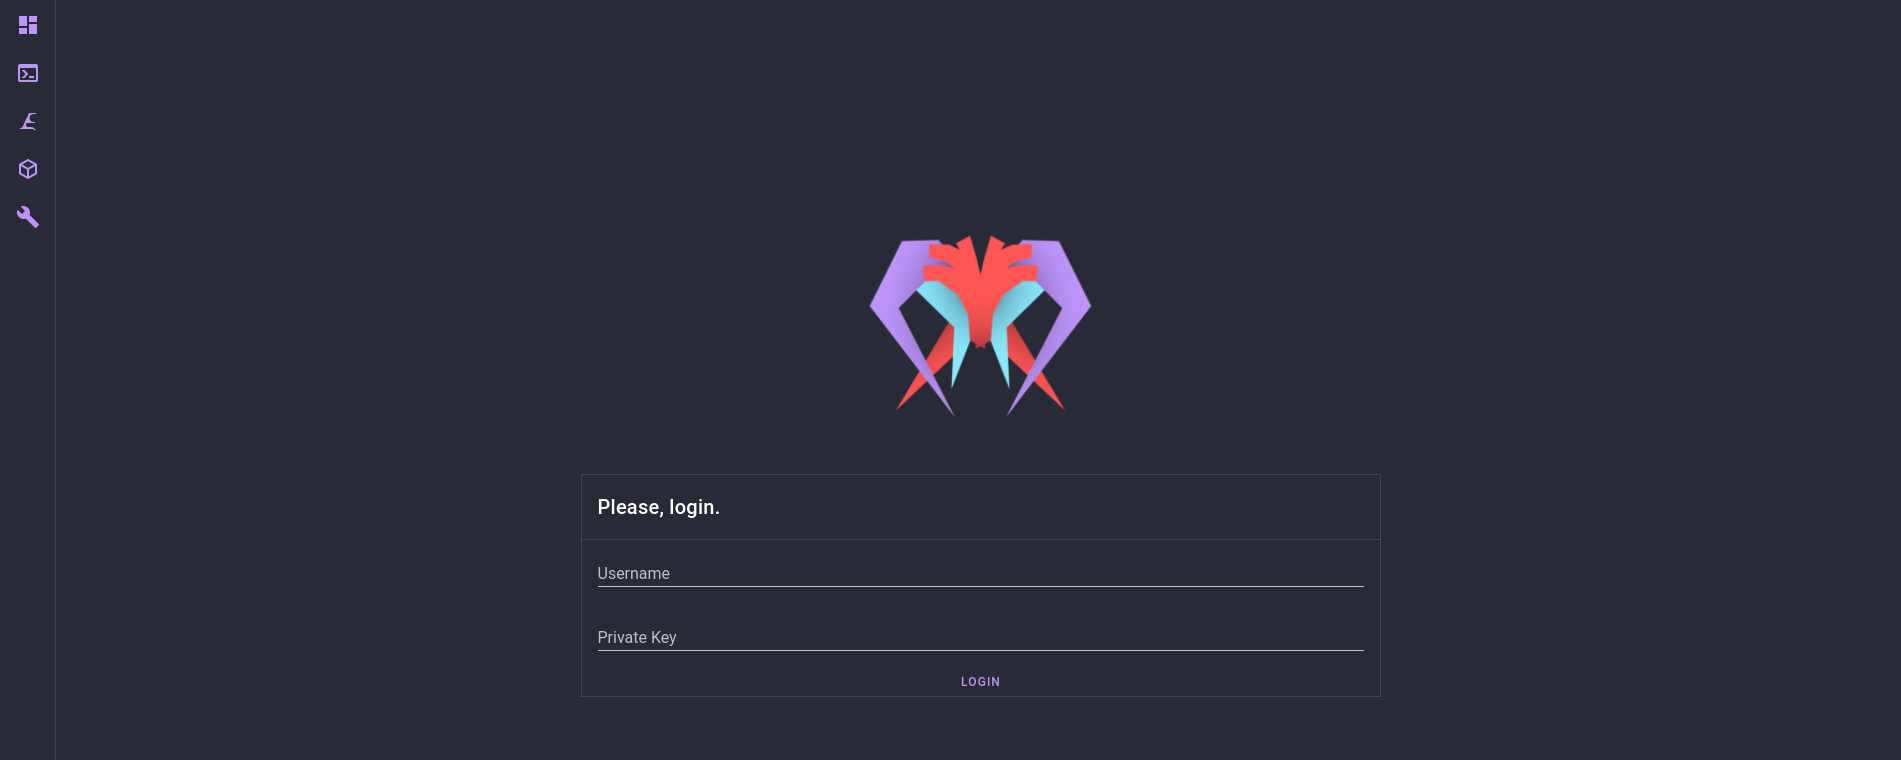
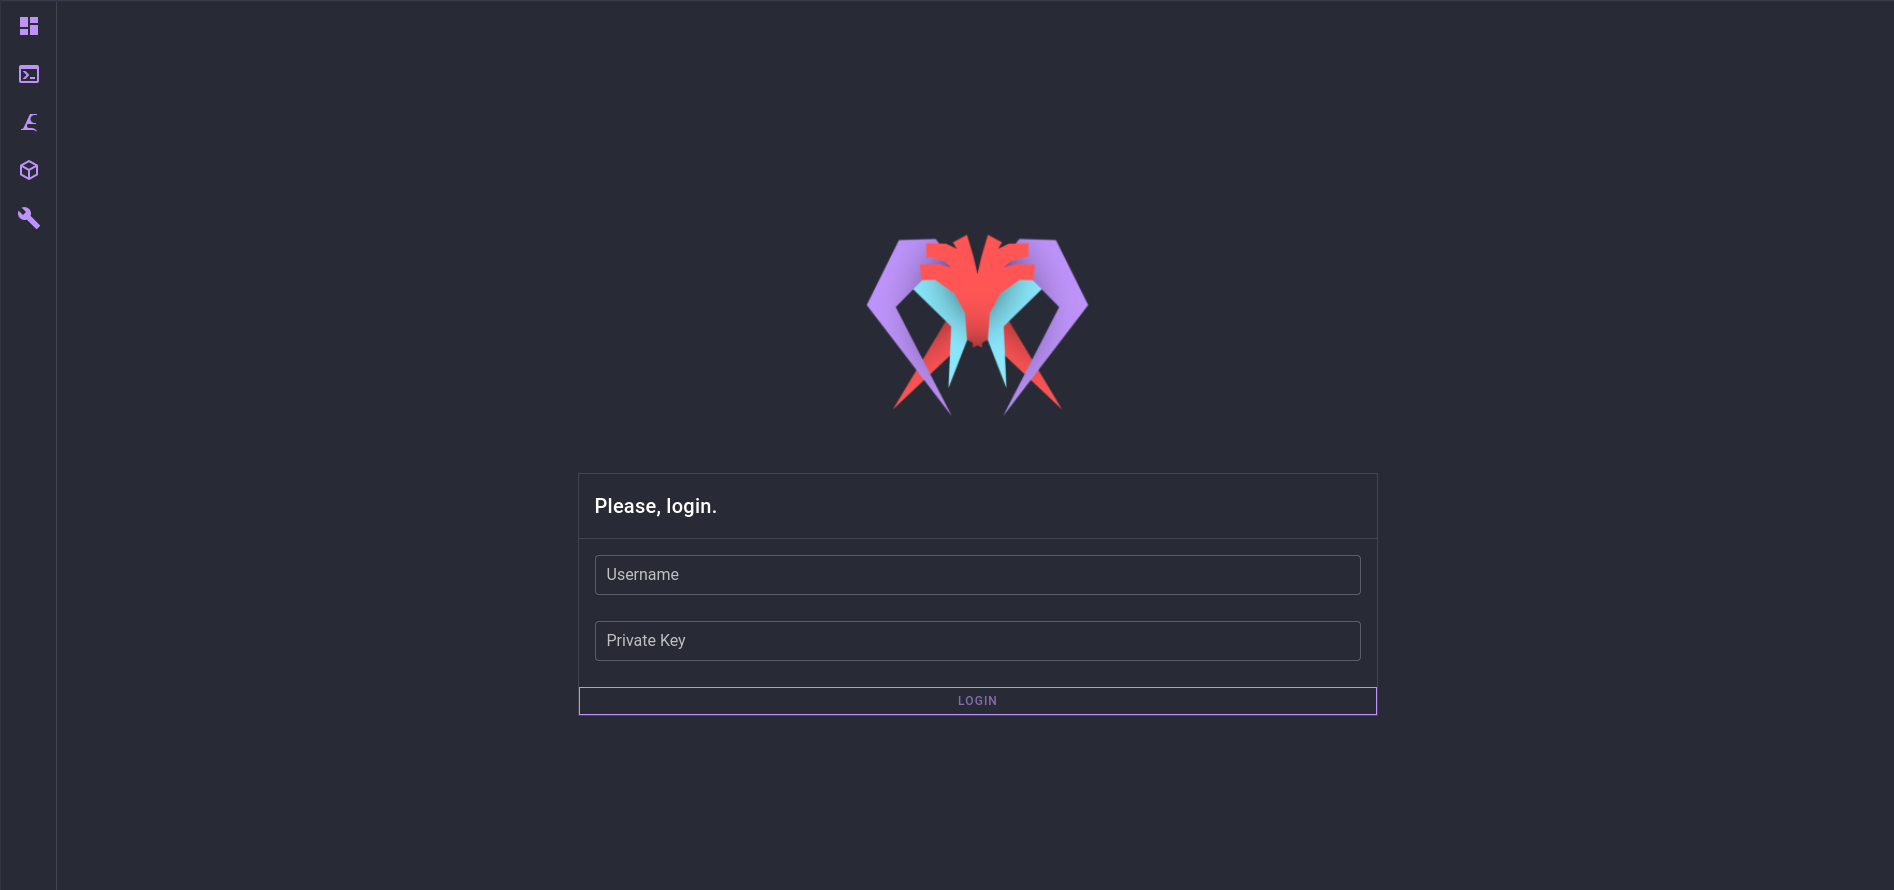
Signing of Messages on Front-End.

diff --git a/user-interfaces/xena-service-face/layouts/default.vue b/user-interfaces/xena-service-face/layouts/default.vue
@@ -6,6 +6,7 @@
       :clipped = 'clipped'
       fixed
       app
+      expand-on-hover
     >
       <v-list>
         <v-list-item
@@ -43,55 +44,79 @@
     </v-main>
 
     <!--v-footer
-      :absolute="!fixed"
+      :absolute = '!fixed'
       app
+      outlined
+      fixed
     >
       <span>&copy; {{ new Date().getFullYear() }}</span>
+      <v-btn
+        tile
+        small
+        color = 'rgba(189, 147, 249, 1)'
+        :plain = 'true'
+        v-if = 'getUsername'
+      >
+        {{ getUsername }}
+      </v-btn>
+
     </v-footer-->
   </v-app>
 </template>
 
-<script>
-export default {
-  data () {
-    return {
-      clipped: false,
-      drawer: true,
-      fixed: false,
-      items: [
-        {
-          icon: 'mdi-view-dashboard',
-          title: 'Dashboard',
-          to: '/dashboard'
-        },
-        {
-          icon: 'mdi-console',
-          title: 'Interaction',
-          to: '/interaction'
-        },
-        {
-          icon: 'mdi-alphabet-piqad',
-          title: 'Tools',
-          to: '/tools',
-        },
-        {
-          icon: 'mdi-cube-outline',
-          title: 'Cloud Build',
-          to: '/build'
-        },
-        {
-          icon: 'mdi-wrench',
-          title: 'Settings',
-          to: '/settings'
-        },
-      ],
-      miniVariant: true,
-      right: true,
-      rightDrawer: false,
-      title: 'XENA'
-    }
-  }
-}
+<script lang = 'ts'>
+import Vue from 'vue'
+
+import { mapGetters } from 'vuex'
+
+export default Vue.extend({
+  computed: {
+    ...mapGetters([
+      'getPrivateKey',
+      'getUsername',
+    ]),
+  },
+
+  data: () => ({
+    searchTerm: '',
+
+    clipped: false,
+    drawer: true,
+    miniVariant: false,
+    right: true,
+    rightDrawer: false,
+    title: 'XENA',
+    fixed: true,
+
+    items: [
+      {
+        icon: 'mdi-view-dashboard',
+        title: 'Dashboard',
+        to: '/dashboard'
+      },
+      {
+        icon: 'mdi-console',
+        title: 'Control Terminal',
+        to: '/terminal'
+      },
+      {
+        icon: 'mdi-alphabet-piqad',
+        title: 'Hacking Tools',
+        to: '/tools',
+      },
+      {
+        icon: 'mdi-cube-outline',
+        title: 'Cloud Build',
+        to: '/build'
+      },
+      {
+        icon: 'mdi-wrench',
+        title: 'Settings',
+        to: '/settings'
+      },
+    ],
+  }),
+})
 
 </script>
 

diff --git a/user-interfaces/xena-service-face/store/index.ts b/user-interfaces/xena-service-face/store/index.ts
@@ -1,27 +1,39 @@
-import Vue from 'vue'
 import Vuex from 'vuex'
 
-Vue.use(Vuex)
+const store = () => {
+  return new Vuex.Store({
+    state: () => ({
+      privateKey: '',
+      username: '',
+    }),
 
-const vuex = () => new Vuex.Store({
-  state: () => ({
-    // Used for signing messages.
-    privateKey: '',
-  }),
-  mutations: {
-    setPrivateKey: (state, key) => {
-      state.privateKey = key
-    }
-  },
-  actions: {
-    setPrivateKey: (state, key) => {
-      state.commit('setPrivateKey', key)
-    }
-  },
-  modules: {},
-  getters: {
-    getPrivateKey: state => state.privateKey
-  },
-})
+    getters: {
+      getUsername: (state) => state.username,
+      getPrivateKey: (state) => state.privateKey,
+    },
 
-export default vuex
+    mutations: {
+      setPrivateKey: (state, key: string) => {
+        state.privateKey = key.replaceAll(' ', '\n')
+          .replace(`-----BEGIN\nRSA\nPRIVATE\nKEY-----`, '-----BEGIN RSA PRIVATE KEY-----')
+          .replace(`-----END\nRSA\nPRIVATE\nKEY-----`, '-----END RSA PRIVATE KEY-----')
+      },
+
+      setUsername: (state, name: string) => {
+        state.username = name
+      },
+    },
+
+    actions: {
+      setPrivateKey: ({ commit }, key: string) => {
+        commit('setPrivateKey', key)
+      },
+
+      setUsername: ({ commit }, name: string) => {
+        commit('setUsername', name)
+      },
+    },
+  })
+}
+
+export default store

diff --git a/user-interfaces/xena-service-face/components/terminal/shell.vue b/user-interfaces/xena-service-face/components/terminal/shell.vue
@@ -1,5 +1,7 @@
 <template>
-  <v-text-field
+  <div>
+    <v-text-field
+      :disabled = '!getPrivateKey'
       dense
       v-model = 'shellCode'
       outlined
@@ -7,6 +9,13 @@
       color = 'rgba(189, 147, 249, 1)'
       @change = 'issueMessages'
     ></v-text-field>
+
+    <h3
+      v-if = '!getPrivateKey'
+    >
+      Please, go to Settings -> Identity and enter your private key in order to sign the messages.
+    </h3>
+  </div>
 </template>
 
 <script lang = 'ts'>
@@ -15,6 +24,8 @@ import Vue from 'vue'
 import * as Service from '@/src/services'
 
 import jwt from 'jsonwebtoken'
+
+import { mapGetters } from 'vuex'
 
 export default Vue.extend({
   data: () => ({
@@ -27,15 +38,25 @@ export default Vue.extend({
     }
   },
 
+  computed: {
+    ...mapGetters([
+      'getPrivateKey',
+    ])
+  },
+
   methods: {
     async issueMessages () {
+      const message = jwt.sign(
+        Buffer.from(this.shellCode).toString('base64'),
+        this.getPrivateKey,
+        { algorithm: 'RS512' },
+      )
+
       const createdMessages = await Promise.all(this.clients.map(client => {
-        return Service.Atila.publishMessage(this.$axios, client.id, 'shell', Buffer.from(this.shellCode).toString('base64'))
+        return Service.Atila.publishMessage(this.$axios, client.id, 'shell', message)
       }))
 
       this.shellCode = ''
-
-      console.log(createdMessages)
     }
   },
 })

diff --git a/user-interfaces/xena-service-face/pages/settings.vue b/user-interfaces/xena-service-face/pages/settings.vue
@@ -100,6 +100,23 @@
                 service-label
               '
             >
+              Username: 
+              <v-btn
+                tile
+                text
+                small
+                color = 'rgba(189, 147, 249, 1)'
+              >
+                {{ getUsername }}
+              </v-btn>
+            </p>
+
+            <p
+              class = '
+                service-label
+                mt-4
+              '
+            >
               Your private key used for signing of messages.
             </p>
             <v-text-field
@@ -118,6 +135,8 @@
 </template>
 <script lang = 'ts'>
 import Vue from 'vue'
+
+import { mapActions, mapGetters } from 'vuex'
 
 export default Vue.extend({
   components: {
@@ -142,11 +161,23 @@ export default Vue.extend({
 
   methods: {
     setPrivateKey () {
-      this.$store.dispatch('setPrivateKey', this.privateKey)
-    }
+      this.setPrivateKey(this.privateKey)
+    },
+
+    ...mapActions([
+      'setPrivateKey',
+    ])
+  },
+
+  computed: {
+    ...mapGetters([
+      'getUsername',
+      'getPrivateKey',
+    ])
   },
 
   mounted () {
+    this.privateKey = this.getPrivateKey
   },
 })
 </script>

diff --git a/user-interfaces/xena-service-face/pages/index.vue b/user-interfaces/xena-service-face/pages/index.vue
@@ -66,7 +66,6 @@
             class = '
             '
             width = '100%'
-            plain = 'false'
           >
             Login
           </v-btn>
@@ -97,6 +96,8 @@
 <script lang = 'ts'>
 import Vue from 'vue'
 
+import { mapActions } from 'vuex'
+
 export default Vue.extend({
   data: () => ({
     username: '',
@@ -110,13 +111,16 @@ export default Vue.extend({
 
   methods: {
     async login () {
-      this.$auth.loginWith('local', {
-        username: this.username,
-        privateKey: this.privateKey,
-      })
+      this.setPrivateKey(this.privateKey)
+      this.setUsername(this.username)
 
       this.$router.push('/dashboard')
     },
+
+    ...mapActions([
+      'setPrivateKey',
+      'setUsername',
+    ]),
   },
 })
 </script>

diff --git a/user-interfaces/xena-service-face/components/dashboard/interaction-dialog.vue b/user-interfaces/xena-service-face/components/dashboard/interaction-dialog.vue
@@ -70,8 +70,8 @@
 import Vue from 'vue'
 import EventBus from '@/src/EventBus'
 
-import MessageDisplay from '@/components/interaction/message-display.vue'
-import Shell from '@/components/interaction/shell.vue'
+import MessageDisplay from '@/components/terminal/message-display.vue'
+import Shell from '@/components/terminal/shell.vue'
 
 import * as Service from '@/src/services'
 
